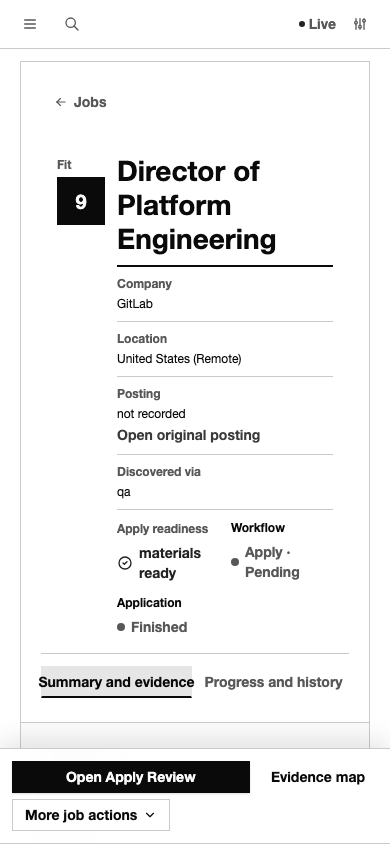
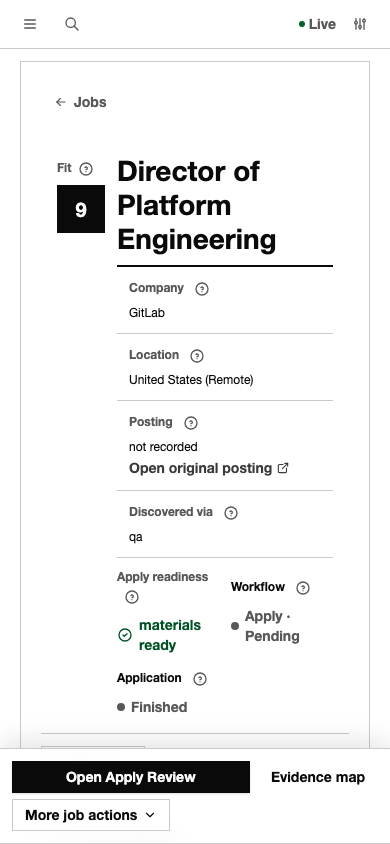
fix(web): complete job detail section navigation

Changed region(s): [[0.0923, 0.3081, 0.8923, 0.8626], [0.1231, 0.1848, 0.2769, 0.2773], [0.4923, 0.3389, 0.5231, 0.3697]]

diff --git a/apps/web/src/views/jobs/JobDetailDrawer.test.tsx b/apps/web/src/views/jobs/JobDetailDrawer.test.tsx
@@ -77,11 +77,34 @@ function renderJobDetailDrawer(jobId: string) {
   });
   return {
     router,
+    queryClient: harness.queryClient,
     ...render(<RouterProvider router={router} />, { wrapper: harness.Wrapper }),
   };
 }
 
 describe("<JobDetailDrawer>", () => {
+  it("keeps a score-correction draft mounted across collapse and detail refetch", async () => {
+    const user = userEvent.setup();
+    const { queryClient } = renderJobDetailDrawer("job-1");
+    const fitSection = await waitFor(() => {
+      const section = document.getElementById("job-detail-fit-evidence");
+      expect(section).not.toBeNull();
+      return section as HTMLElement;
+    });
+    await user.click(within(fitSection).getByText("Score evidence and controls"));
+    const reason = within(fitSection).getByRole("textbox", { name: "Reason" });
+    await user.type(reason, "Keep this local draft");
+    const trigger = within(fitSection).getByRole("button", { name: /01 · Fit & evidence/ });
+    await user.click(trigger);
+    expect(trigger).toHaveAttribute("aria-expanded", "false");
+    expect(reason).toBeInTheDocument();
+    expect(reason).not.toBeVisible();
+    await queryClient.invalidateQueries();
+    await user.click(trigger);
+    expect(trigger).toHaveAttribute("aria-expanded", "true");
+    expect(reason).toHaveValue("Keep this local draft");
+  });
+
   it("keeps contextual help available across the detail workspace when records are absent", async () => {
     server.use(
       http.get("*/v1/jobs/:jobKey", ({ params }) =>
@@ -554,27 +577,18 @@ describe("<JobDetailDrawer>", () => {
     expect(
       workspace.querySelector(".job-detail-workspace__content"),
     ).not.toBeNull();
-    expect(
-      workspace.querySelector(".job-detail-workspace__inspector"),
-    ).not.toBeNull();
-    const mobileSections = within(workspace).getByRole("group", {
-      name: "Job detail section",
-      hidden: true,
-    });
-    const summarySection = within(mobileSections).getByRole("button", {
-      name: "Summary and evidence",
-      hidden: true,
-    });
-    const diagnosticSection = within(mobileSections).getByRole("button", {
-      name: "Progress and history",
-      hidden: true,
-    });
-    expect(summarySection).toHaveAttribute("aria-pressed", "true");
-    fireEvent.click(diagnosticSection);
-    expect(diagnosticSection).toHaveAttribute("aria-pressed", "true");
-    expect(
-      workspace.querySelector("#job-detail-diagnostics-panel"),
-    ).toHaveAttribute("data-mobile-active", "true");
+    expect(workspace.querySelector(".route-workspace__inspector")).toBeNull();
+    expect(workspace.querySelectorAll(".job-detail-major-section")).toHaveLength(11);
+    const sectionsTrigger = within(workspace).getByRole("button", { name: "Sections" });
+    fireEvent.click(sectionsTrigger);
+    const sectionsMenu = await screen.findByRole("navigation", { name: "Job detail sections" });
+    expect(within(sectionsMenu).getAllByRole("button").map((button) => button.textContent)).toEqual([
+      "Fit & evidence", "Preparation diagnostics", "Artifacts", "Compensation",
+      "Description", "Role Analysis", "Interview prep", "Apply history",
+      "Application outcomes", "Contacts", "Audit history",
+    ]);
+    fireEvent.click(within(sectionsMenu).getByRole("button", { name: "Artifacts" }));
+    expect(within(workspace.querySelector("#job-detail-artifacts") as HTMLElement).getByRole("button", { name: /03 · Artifacts/ })).toHaveAttribute("aria-expanded", "true");
     const commandTrigger = within(workspace).getByRole("button", {
       name: "More job actions",
     });
@@ -1420,11 +1434,12 @@ describe("<JobDetailDrawer>", () => {
     expect(auditDisclosure).not.toHaveAttribute("open");
 
     const workspace = screen.getByRole("article", { name: "Job details" });
-    const sections = Array.from(workspace.querySelectorAll("section.section"));
+    const sections = Array.from(workspace.querySelectorAll(".job-detail-major-section"));
+    expect(sections).toHaveLength(11);
     expect(sections.at(-1)).toContainElement(auditDisclosure);
     expect(sections.at(-1)).toHaveTextContent("Technical details");
-    expect(sections[1]).toHaveTextContent("Compensation");
-    expect(sections[2]).toHaveTextContent("Description");
+    expect(sections[3]).toHaveTextContent("Compensation");
+    expect(sections[4]).toHaveTextContent("Description");
 
     await user.click(auditSummary);
     expect(auditDisclosure).toHaveAttribute("open");

diff --git a/apps/web/e2e/tests/jobs-drawer.spec.ts b/apps/web/e2e/tests/jobs-drawer.spec.ts
@@ -487,7 +487,7 @@ test("Job detail: keyboard activation opens requirement fit, stages, and artifac
   const drawer = page.getByRole("article", { name: "Job details" });
   await expect(drawer).toBeVisible({ timeout: 10_000 });
   await expect(
-    drawer.getByRole("heading", { name: /Preparation diagnostics/i }),
+    drawer.getByRole("heading", { name: "Preparation diagnostics", exact: true }),
   ).toBeVisible();
   const artifactSection = drawer.getByRole("heading", { name: "Artifacts", exact: true }).locator("..");
   await expect(artifactSection).toBeVisible();
@@ -529,11 +529,42 @@ test("Job detail: keyboard activation opens requirement fit, stages, and artifac
   await expect(primaryRequirement).toContainText("Score contribution");
   await expect(primaryRequirement).toContainText("Double Down");
 
+  const sectionsButton = drawer.getByRole("button", { name: "Sections" });
+  await sectionsButton.focus();
+  await sectionsButton.press("Enter");
+  const sectionsMenu = page.getByRole("navigation", { name: "Job detail sections" });
+  await expect(sectionsMenu.getByRole("button")).toHaveCount(11);
+  await sectionsButton.press("Escape");
+  await expect(sectionsButton).toBeFocused();
+  await sectionsButton.click();
+  await page.getByRole("button", { name: "Collapse all" }).click();
+  const artifactDisclosure = drawer.locator("#job-detail-artifacts > .configuration-section__header [data-slot='collapsible-trigger']");
+  await expect(artifactDisclosure).toHaveAttribute("aria-expanded", "false");
+  await expect(artifactSection).toBeHidden();
+  await sectionsButton.click();
+  await sectionsMenu.getByRole("button", { name: "Artifacts" }).click();
+  await expect(artifactDisclosure).toHaveAttribute("aria-expanded", "true");
+  await expect(artifactDisclosure).toBeFocused();
+  await expect(artifactSection).toBeVisible();
+
   await page.reload();
   await expect(page.getByRole("article", { name: "Job details" })).toBeVisible({
     timeout: 30_000,
   });
   await expect(page).toHaveURL(/sort=fit_score/);
+  await page.setViewportSize({ width: 390, height: 844 });
+  const mobileArtifacts = page.locator("#job-detail-artifacts");
+  await mobileArtifacts.scrollIntoViewIfNeeded();
+  expect(
+    await mobileArtifacts.evaluate((element) => element.scrollWidth <= element.clientWidth + 1),
+  ).toBe(true);
+  const mobileAudit = page.locator("#job-detail-audit");
+  await mobileAudit.scrollIntoViewIfNeeded();
+  await expect(mobileAudit).toBeVisible();
+  await expect(page.locator("#job-detail-fit-evidence")).toBeAttached();
+  expect(await page.evaluate(() => document.documentElement.scrollWidth)).toBeLessThanOrEqual(
+    await page.evaluate(() => document.documentElement.clientWidth + 1),
+  );
 
   const backButton = page.getByRole("button", { name: "Back to jobs" });
   await backButton.click();
@@ -629,4 +660,6 @@ test("keeps the job detail header Tab order aligned with its visual order", asyn
     await page.keyboard.press("Tab");
     await expect(overview.getByRole("button", { name: `Help for ${label}` })).toBeFocused();
   }
+  await page.keyboard.press("Tab");
+  await expect(drawer.getByRole("button", { name: "Sections" })).toBeFocused();
 });

diff --git a/apps/web/src/styles/redesign-route-workspaces.css b/apps/web/src/styles/redesign-route-workspaces.css
@@ -123,7 +123,7 @@
 }
 
 .job-detail-sections-menu {
-  max-height: min(70dvh, 620px);
+  max-height: min(45dvh, 360px);
   overflow-y: auto;
 }
 
@@ -226,38 +226,6 @@
   flex: 0 0 auto;
 }
 
-.job-detail-workspace__inspector {
-  grid-template-columns: minmax(0, 1fr);
-}
-
-.job-detail-workspace__inspector > * {
-  min-width: 0;
-}
-
-.job-detail-workspace__inspector .job-artifact-row {
-  grid-template-columns: auto minmax(0, 1fr);
-  gap: 8px 10px;
-}
-
-.job-detail-workspace__inspector .job-artifact-row > :nth-child(2) {
-  min-width: 0;
-  overflow-wrap: anywhere;
-}
-
-.job-detail-workspace__inspector .job-artifact-row > [data-slot="button"] {
-  grid-column: 1 / -1;
-  justify-self: start;
-  height: auto;
-  white-space: normal;
-}
-
-.job-detail-workspace__inspector
-  .job-artifact-row
-  > .job-artifact-technical-details {
-  grid-column: 1 / -1;
-  min-width: 0;
-}
-
 .job-detail-workspace > .route-workspace__grid,
 .artifact-detail-workspace > .route-workspace__grid,
 .contact-detail-workspace > .route-workspace__grid,
@@ -282,7 +250,6 @@
 }
 
 .job-detail-workspace__content,
-.job-detail-workspace__inspector,
 .artifact-detail-workspace__inspector,
 .activity-detail-workspace__content,
 .activity-detail-workspace__inspector,
@@ -318,9 +285,25 @@
   padding: var(--jh-section-padding-block) var(--jh-section-padding-inline);
 }
 
+.job-detail-major-section .job-artifact-row > span {
+  min-width: 0;
+  overflow-wrap: anywhere;
+}
+
+@media (max-width: 600px) {
+  .job-detail-major-section .job-artifact-row {
+    grid-template-columns: auto minmax(0, 1fr);
+  }
+
+  .job-detail-major-section .job-artifact-row > [data-slot="button"] {
+    grid-column: 1 / -1;
+    justify-self: start;
+    height: auto;
+    white-space: normal;
+  }
+}
+
 .job-detail-workspace__content > .section,
-.job-detail-workspace__inspector > .section,
-.job-detail-workspace__inspector > .job-contacts-panel,
 .artifact-detail-workspace__inspector > .section,
 .artifact-detail-workspace__inspector > .tailoring-explanation-section,
 .contact-detail-workspace .section,

diff --git a/apps/web/src/views/jobs/JobDetailDrawer.tsx b/apps/web/src/views/jobs/JobDetailDrawer.tsx
@@ -347,7 +347,7 @@ export function JobDetailDrawer({ jobId, onClose }: JobDetailDrawerProps) {
     if (!id) return;
     jumpTarget.current = null;
     const trigger = document.getElementById(`job-detail-${id}`)?.querySelector<HTMLButtonElement>("[data-slot='collapsible-trigger']");
-    trigger?.scrollIntoView({ block: "start" });
+    trigger?.scrollIntoView?.({ block: "start" });
     trigger?.focus();
   }
 
@@ -360,7 +360,6 @@ export function JobDetailDrawer({ jobId, onClose }: JobDetailDrawerProps) {
           aria-label="Job details"
           className="job-detail-workspace"
           contentLabel="Job evidence and analysis"
-          inspectorLabel="Job progress, materials, and history"
           header={
             <div className="job-detail-workspace__header">
               <Button
@@ -457,6 +456,7 @@ export function JobDetailDrawer({ jobId, onClose }: JobDetailDrawerProps) {
                       focusJumpTarget();
                     }
                   }}
+                  side="top"
                   sideOffset={8}
                 >
                   <nav aria-label="Job detail sections">
@@ -490,7 +490,7 @@ export function JobDetailDrawer({ jobId, onClose }: JobDetailDrawerProps) {
           }
         >
           <div className="job-detail-workspace__content">
-            {sections.map((section) => (
+            {sections.map((section, index) => (
               <DisclosureSection
                 className="job-detail-major-section"
                 description={section.description}
@@ -499,7 +499,7 @@ export function JobDetailDrawer({ jobId, onClose }: JobDetailDrawerProps) {
                 key={section.id}
                 onOpenChange={(open) => setExpandedSections((current) => ({ ...current, [section.id]: open }))}
                 open={expandedSections[section.id] ?? true}
-                title={section.title}
+                title={`${String(index + 1).padStart(2, "0")} · ${section.title}`}
               >
                 {section.content}
               </DisclosureSection>

diff --git a/apps/web/src/styles/redesign-job-detail.css b/apps/web/src/styles/redesign-job-detail.css
@@ -261,14 +261,6 @@
   margin-top: var(--jh-internal-gap);
 }
 
-.job-detail-workspace {
-  display: grid;
-  grid-template-columns: minmax(0, 1fr) minmax(320px, 0.33fr);
-  min-width: 0;
-  align-items: start;
-  border-top: 0;
-}
-
 .job-detail-primary,
 .job-detail-sidebar,
 .job-detail-follow-up {
@@ -923,10 +915,6 @@
 @media (max-width: 1040px) {
   .job-detail-drawer .drawer-head {
     padding-right: 60px;
-  }
-
-  .job-detail-workspace {
-    grid-template-columns: 1fr;
   }
 
   .job-detail-sidebar {

diff --git a/apps/web/e2e/tests/route-visual-qa.spec.ts b/apps/web/e2e/tests/route-visual-qa.spec.ts
@@ -926,7 +926,7 @@ async function readJobDetailDensityGeometry(
   const action = page.locator(".job-detail-top-actions .jh-control").first();
   const header = page.locator(".route-workspace__header");
   const section = page
-    .locator(".job-detail-workspace__content > .section")
+    .locator(".job-detail-major-section > .configuration-section__header > .configuration-section__trigger")
     .first();
   const title = page.locator(".job-overview h1");
 

diff --git a/docs/user/product-tour.md b/docs/user/product-tour.md
@@ -111,7 +111,11 @@ focus-only row action opens the record without filling the table with visible
 Job Detail keeps identity, score and requirement evidence, source provenance,
 compensation, description, employer analysis, interview prep, per-job actions,
 preparation diagnostics, active artifacts, Apply history, outcomes, contacts,
-and audit history in one route. Labeled metadata separates company, location,
+and audit history in one route. Below the header, one full-width column keeps
+these sections in reading order on desktop and phone. Use **Sections** to jump
+to a section, or **Expand all** and **Collapse all** to change the level of
+detail. Collapsing a section keeps its forms and live state in place, including
+draft text. Labeled metadata separates company, location,
 salary, posting, and discovery source. The assessment strip keeps fit score,
 band, confidence, eligibility, requirement fit, and must-have coverage together;
 missing assessments remain explicit. Requirement evidence starts visible and

diff --git a/docs/user/normal-flows.md b/docs/user/normal-flows.md
@@ -351,6 +351,12 @@ Accepted artifacts appear first, newest recorded generation first. Older
 approved artifacts remain visible. Canonically superseded artifacts are
 available under **Superseded artifacts**; expand it to inspect or open them.
 
+The sections below the Job Detail header form one full-width column at desktop
+and phone widths. Open **Sections** to jump to any section in reading order;
+the destination expands, scrolls into view, and receives keyboard focus. The
+same menu offers **Expand all** and **Collapse all**. Each section can also be
+collapsed from its heading without losing a draft form entry or live update.
+
 The question-mark buttons beside Job Detail labels open short explanations of
 the saved value, its source, and important limits. Press Enter or Space on a
 focused button to open its help, then Escape to return focus to the button.
